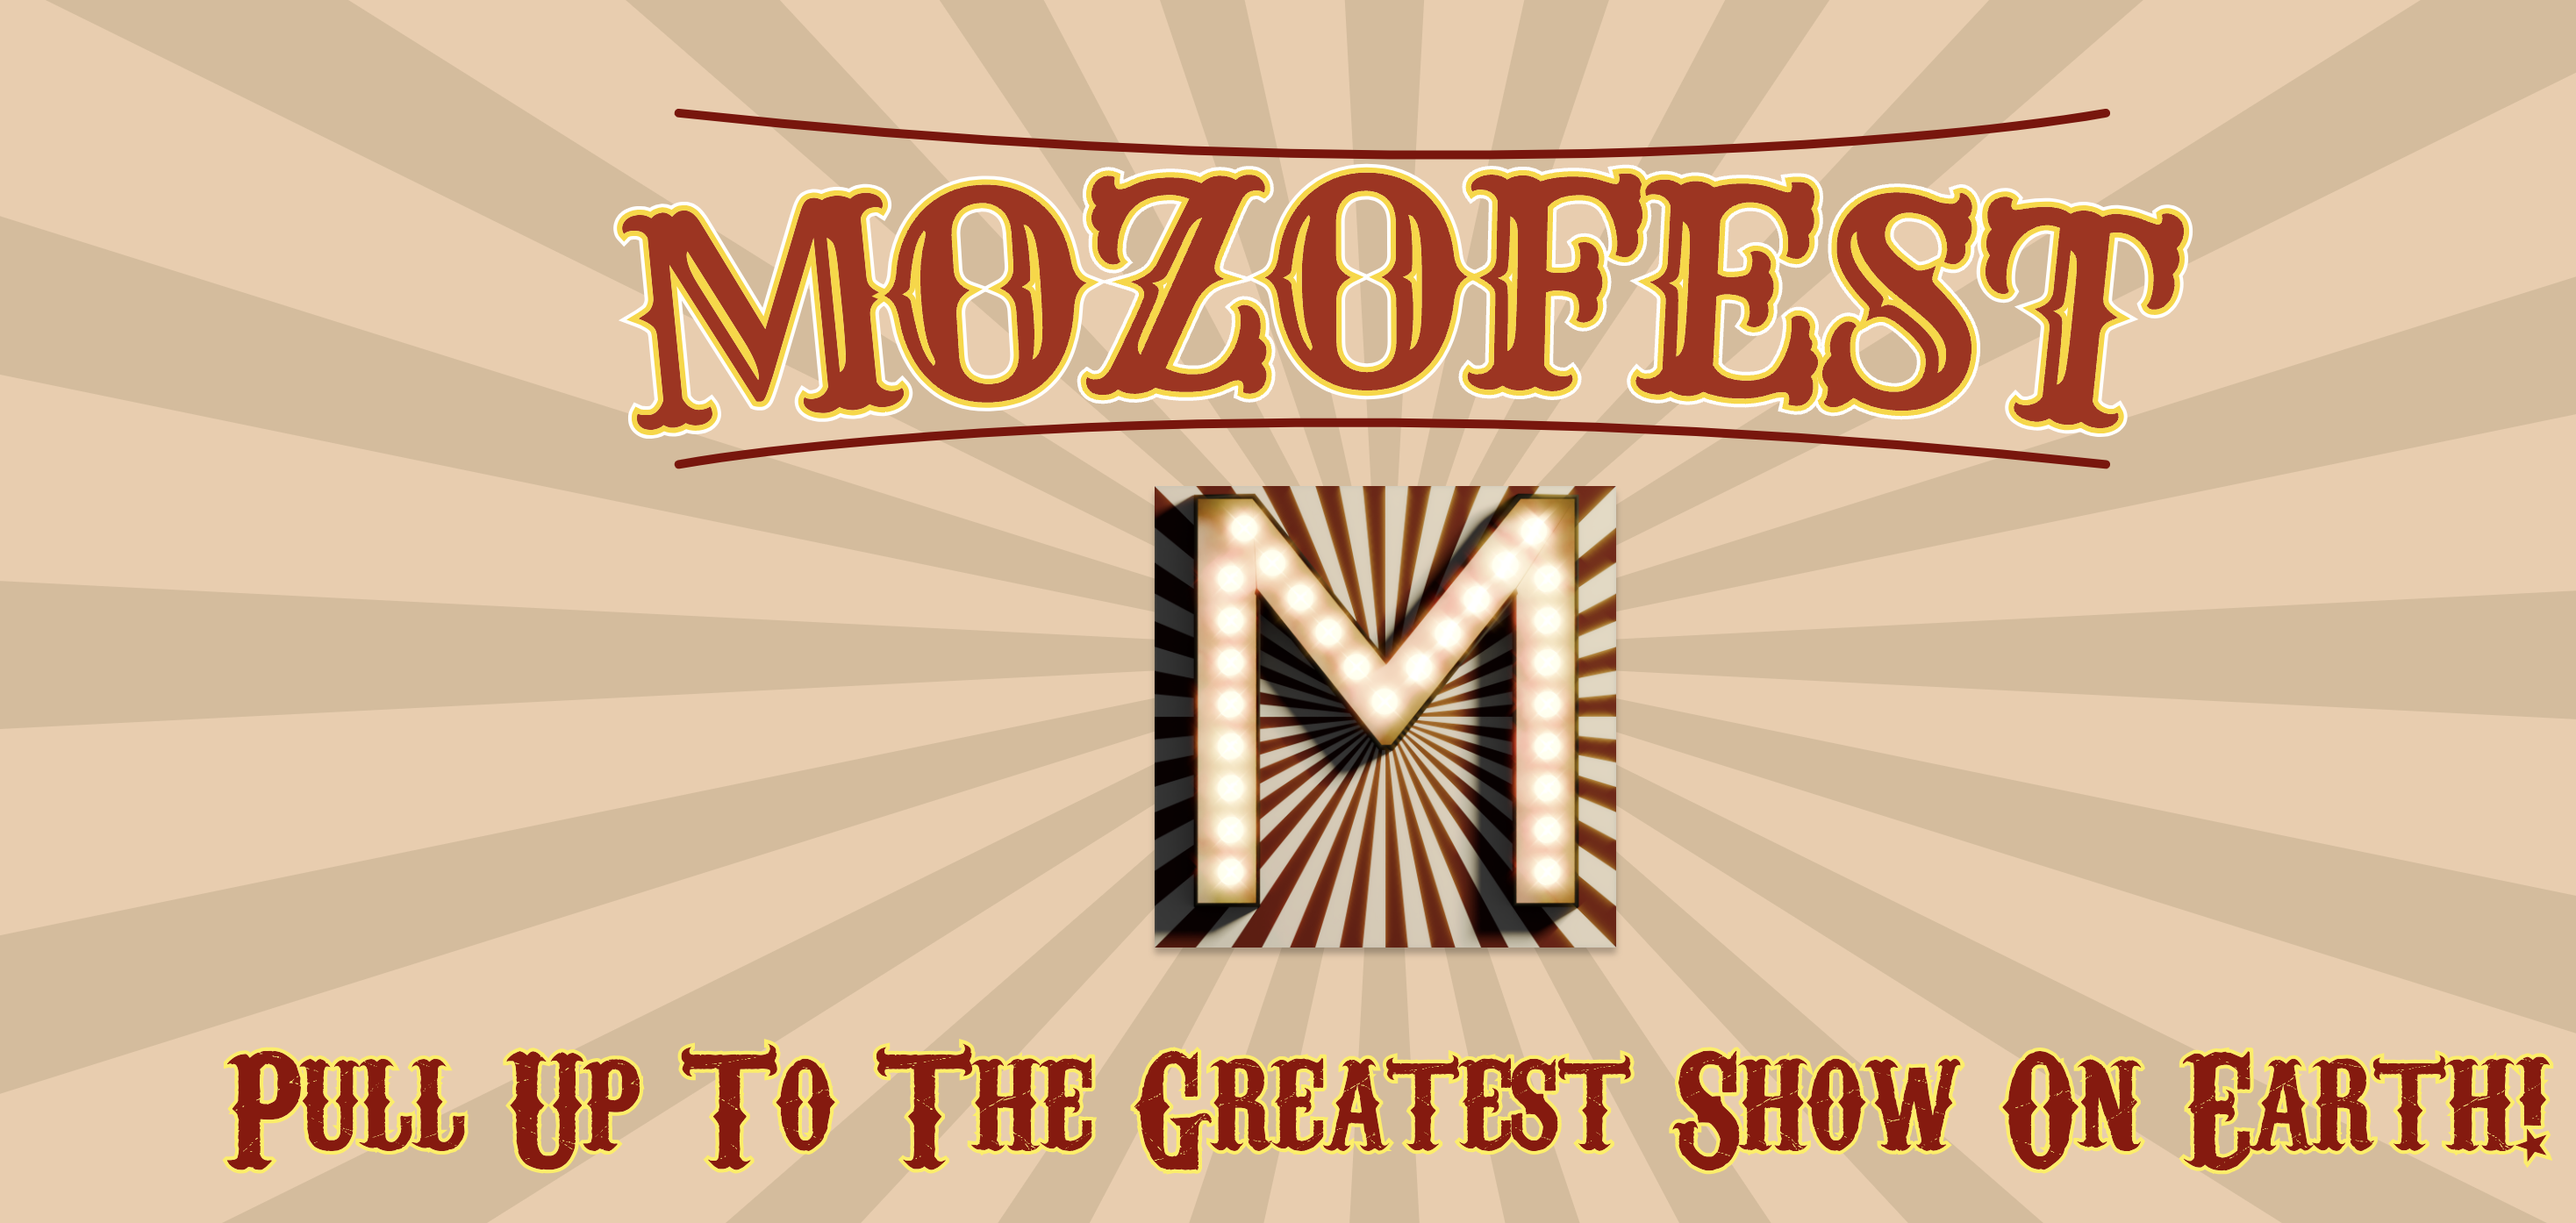
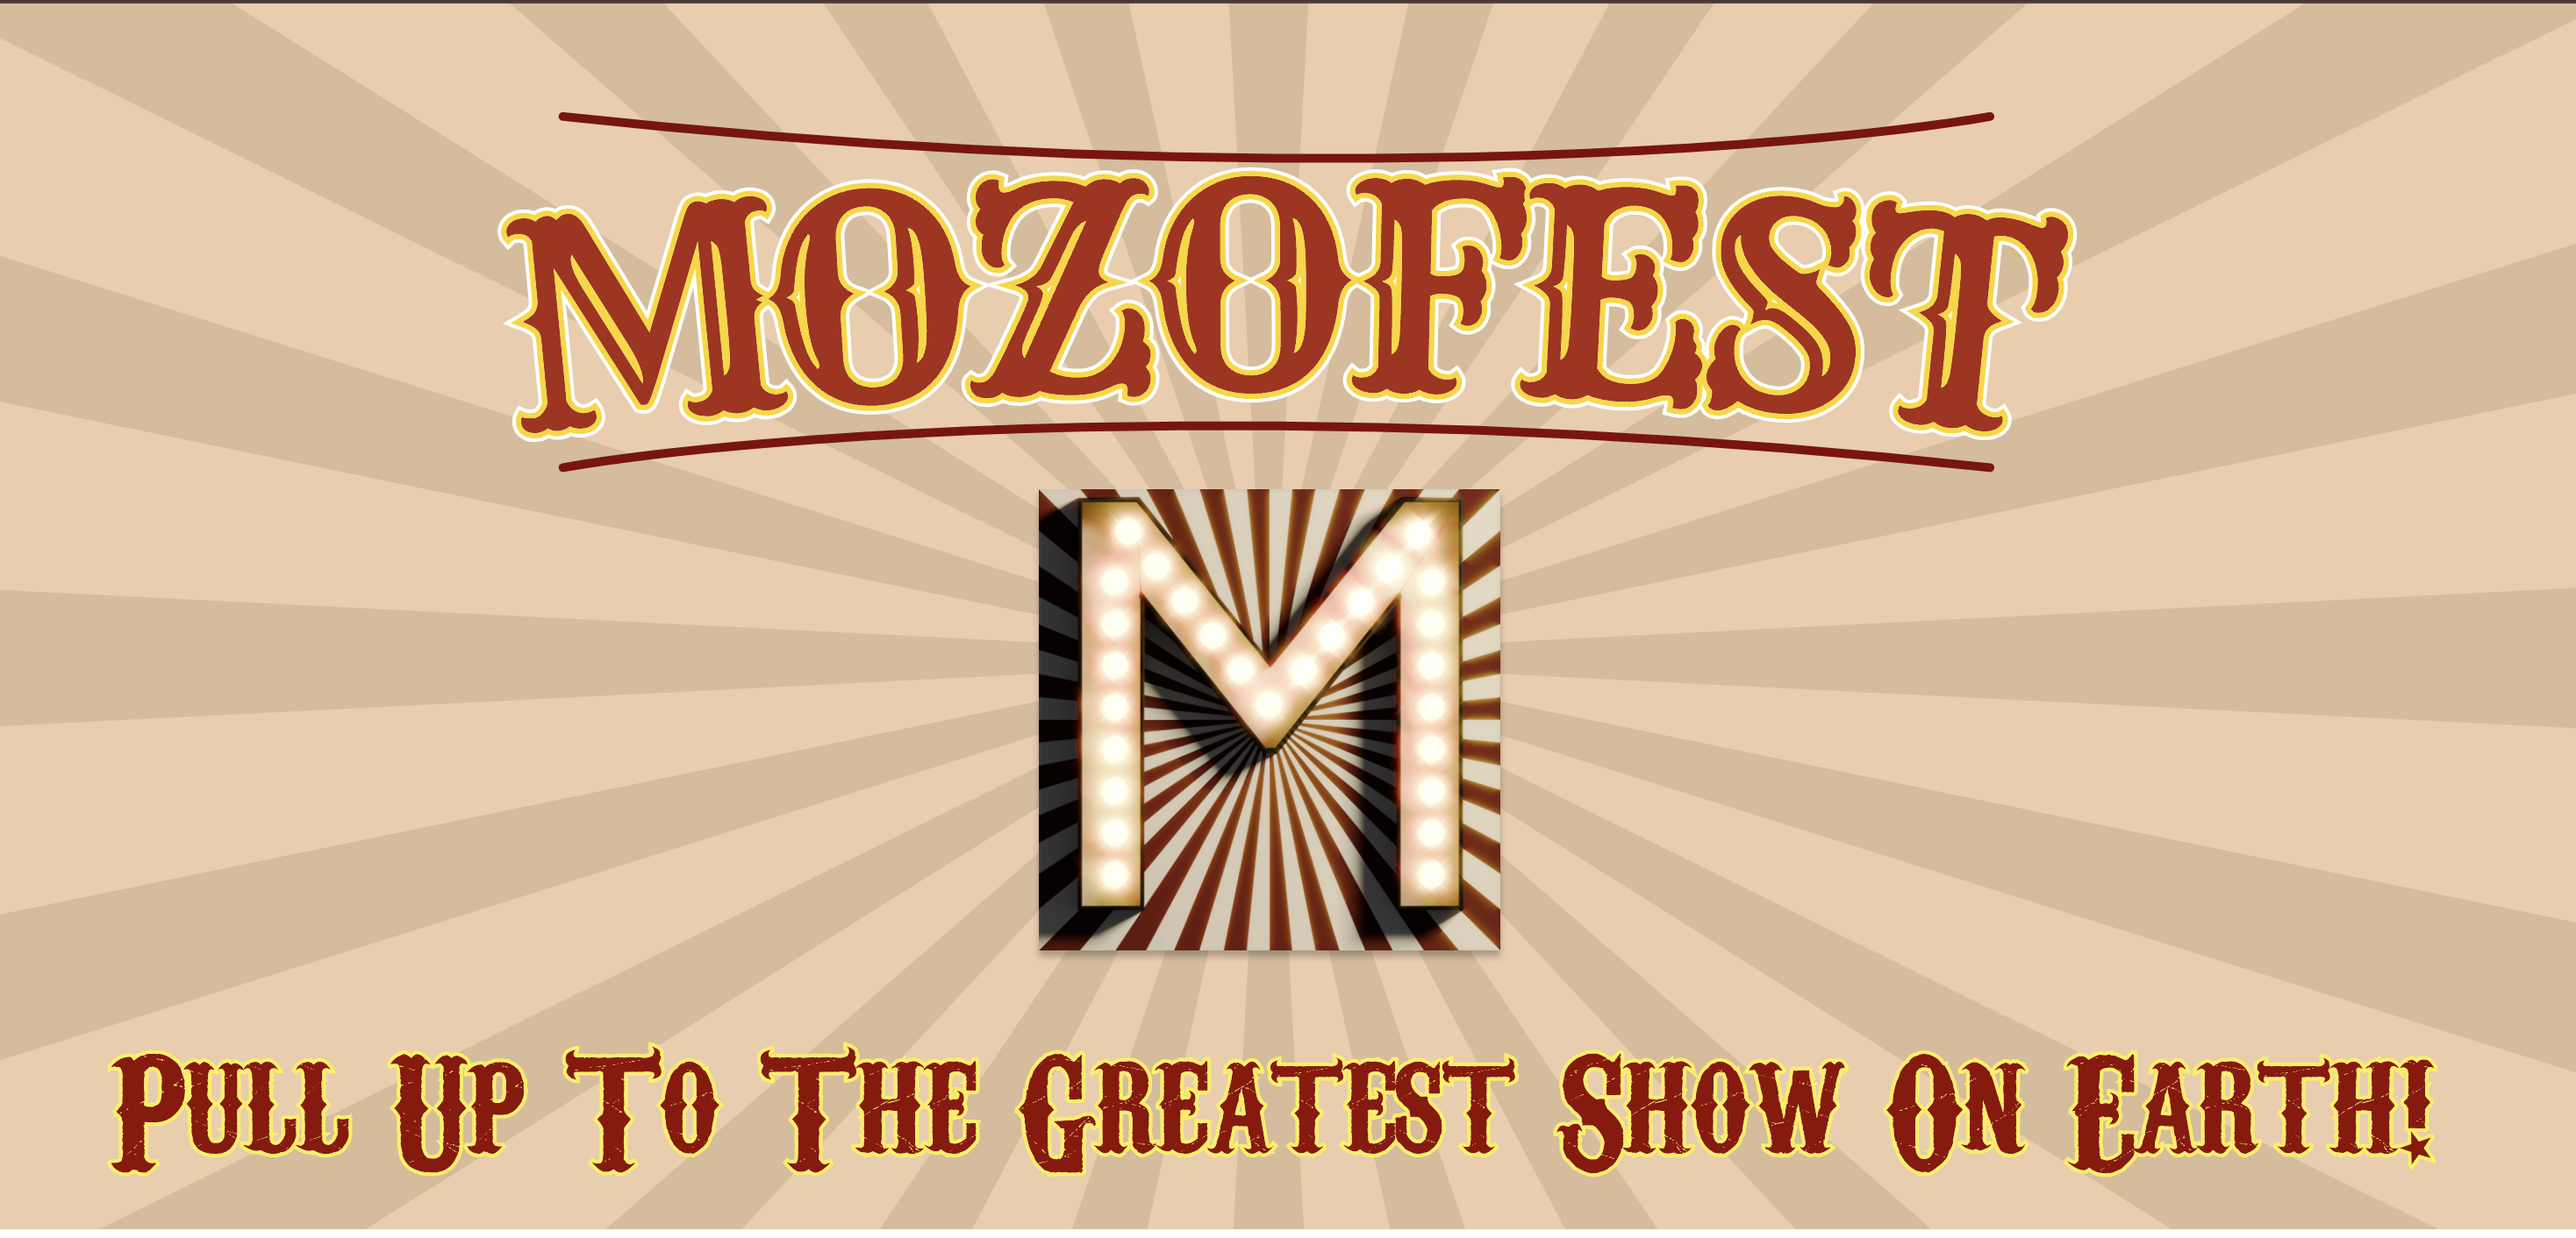
chore: modify project route

Changed region(s): [[0.186, 0.0925, 0.8678, 0.802], [0.031, 0.8329, 0.9918, 0.9562], [0.0, 0.9871, 1.0, 1.0]]

diff --git a/app/routes/projects.tsx b/app/routes/projects.tsx
@@ -1,4 +1,3 @@
-import React from "react";
 import Navbar from "../components/navbar";
 import Footer from "../components/footer";
 
@@ -10,11 +9,16 @@ function Projects() {
         Projects
       </h1>
       <div className="text-white flex flex-col gap-16 place-content-center place-items-center py-10">
-        <div className="h-[35rem] w-[70%] md:h-[40rem] 2xl:h-[50rem] 2xl:w-[50%] rounded-xl outline bg-black flex flex-col place-content-start">
+        <div className="h-[35rem] w-[70%] md:h-[40rem] 2xl:h-[50rem] 2xl:w-[50%] rounded-xl outline outline-2 outline-zinc-800 bg-black flex flex-col place-content-start">
           <img
             src="Mozofest.png"
             alt=""
-            className="w-full h-[20rem] md:h-[31rem] bg-zinc-800 rounded-xl object-fit"
+            className="w-full h-[20rem] md:h-[31rem] bg-zinc-800 rounded-xl object-fit hidden md:block"
+          />
+           <img
+            src="Mozofest2.png"
+            alt=""
+            className="w-full h-[20rem] md:h-[31rem] bg-zinc-800 rounded-xl object-fit md:hidden"
           />
           <div className="px-5">
             <h1 className="text-center text-2xl md:text-4xl 2xl:text-6xl font-bold py-2 2xl:py-6">
@@ -29,7 +33,7 @@ function Projects() {
             </p>
           </div>
         </div>
-        <div className="h-[35rem] w-[70%] md:h-[40rem] 2xl:h-[50rem] 2xl:w-[50%] rounded-xl outline bg-black flex flex-col place-content-start">
+        <div className="h-[35rem] w-[70%] md:h-[40rem] 2xl:h-[50rem] 2xl:w-[50%] rounded-xl outline outline-2 outline-zinc-800 bg-black flex flex-col place-content-start">
           <img
             src="Unbranded.png"
             alt=""

diff --git a/app/routes/_index.tsx b/app/routes/_index.tsx
@@ -6,7 +6,6 @@ import {
   SiTailwindcss,
   SiTypescript,
 } from "react-icons/si";
-import { TbBrandCpp } from "react-icons/tb";
 import Background from "../components/background";
 import Devcard from "../components/devcard";
 import Footer from "../components/footer";
@@ -97,7 +96,7 @@ export default function Home() {
 
       <div className="flex flex-col place-items-center gap-14 mt-28">
         <div className="h-44 w-44 md:h-[200px] md:w-[200px] bg-gradient-to-tr from-transparent via-rose-500 to-transparent transform duration-700 rounded-full py-14 text-6xl flex place-content-center place-items-center ">
-          <h1 className="font-medium text-6xl xl:text-8xl bg-gradient-to-br from-rose-800 via-zinc-300 to-rose-800 text-transparent bg-clip-text">
+          <h1 className="font-medium text-6xl xl:text-8xl bg-gradient-to-br from-rose-800 via-zinc-800 to-rose-800 text-transparent bg-clip-text">
             Skills
           </h1>
         </div>
